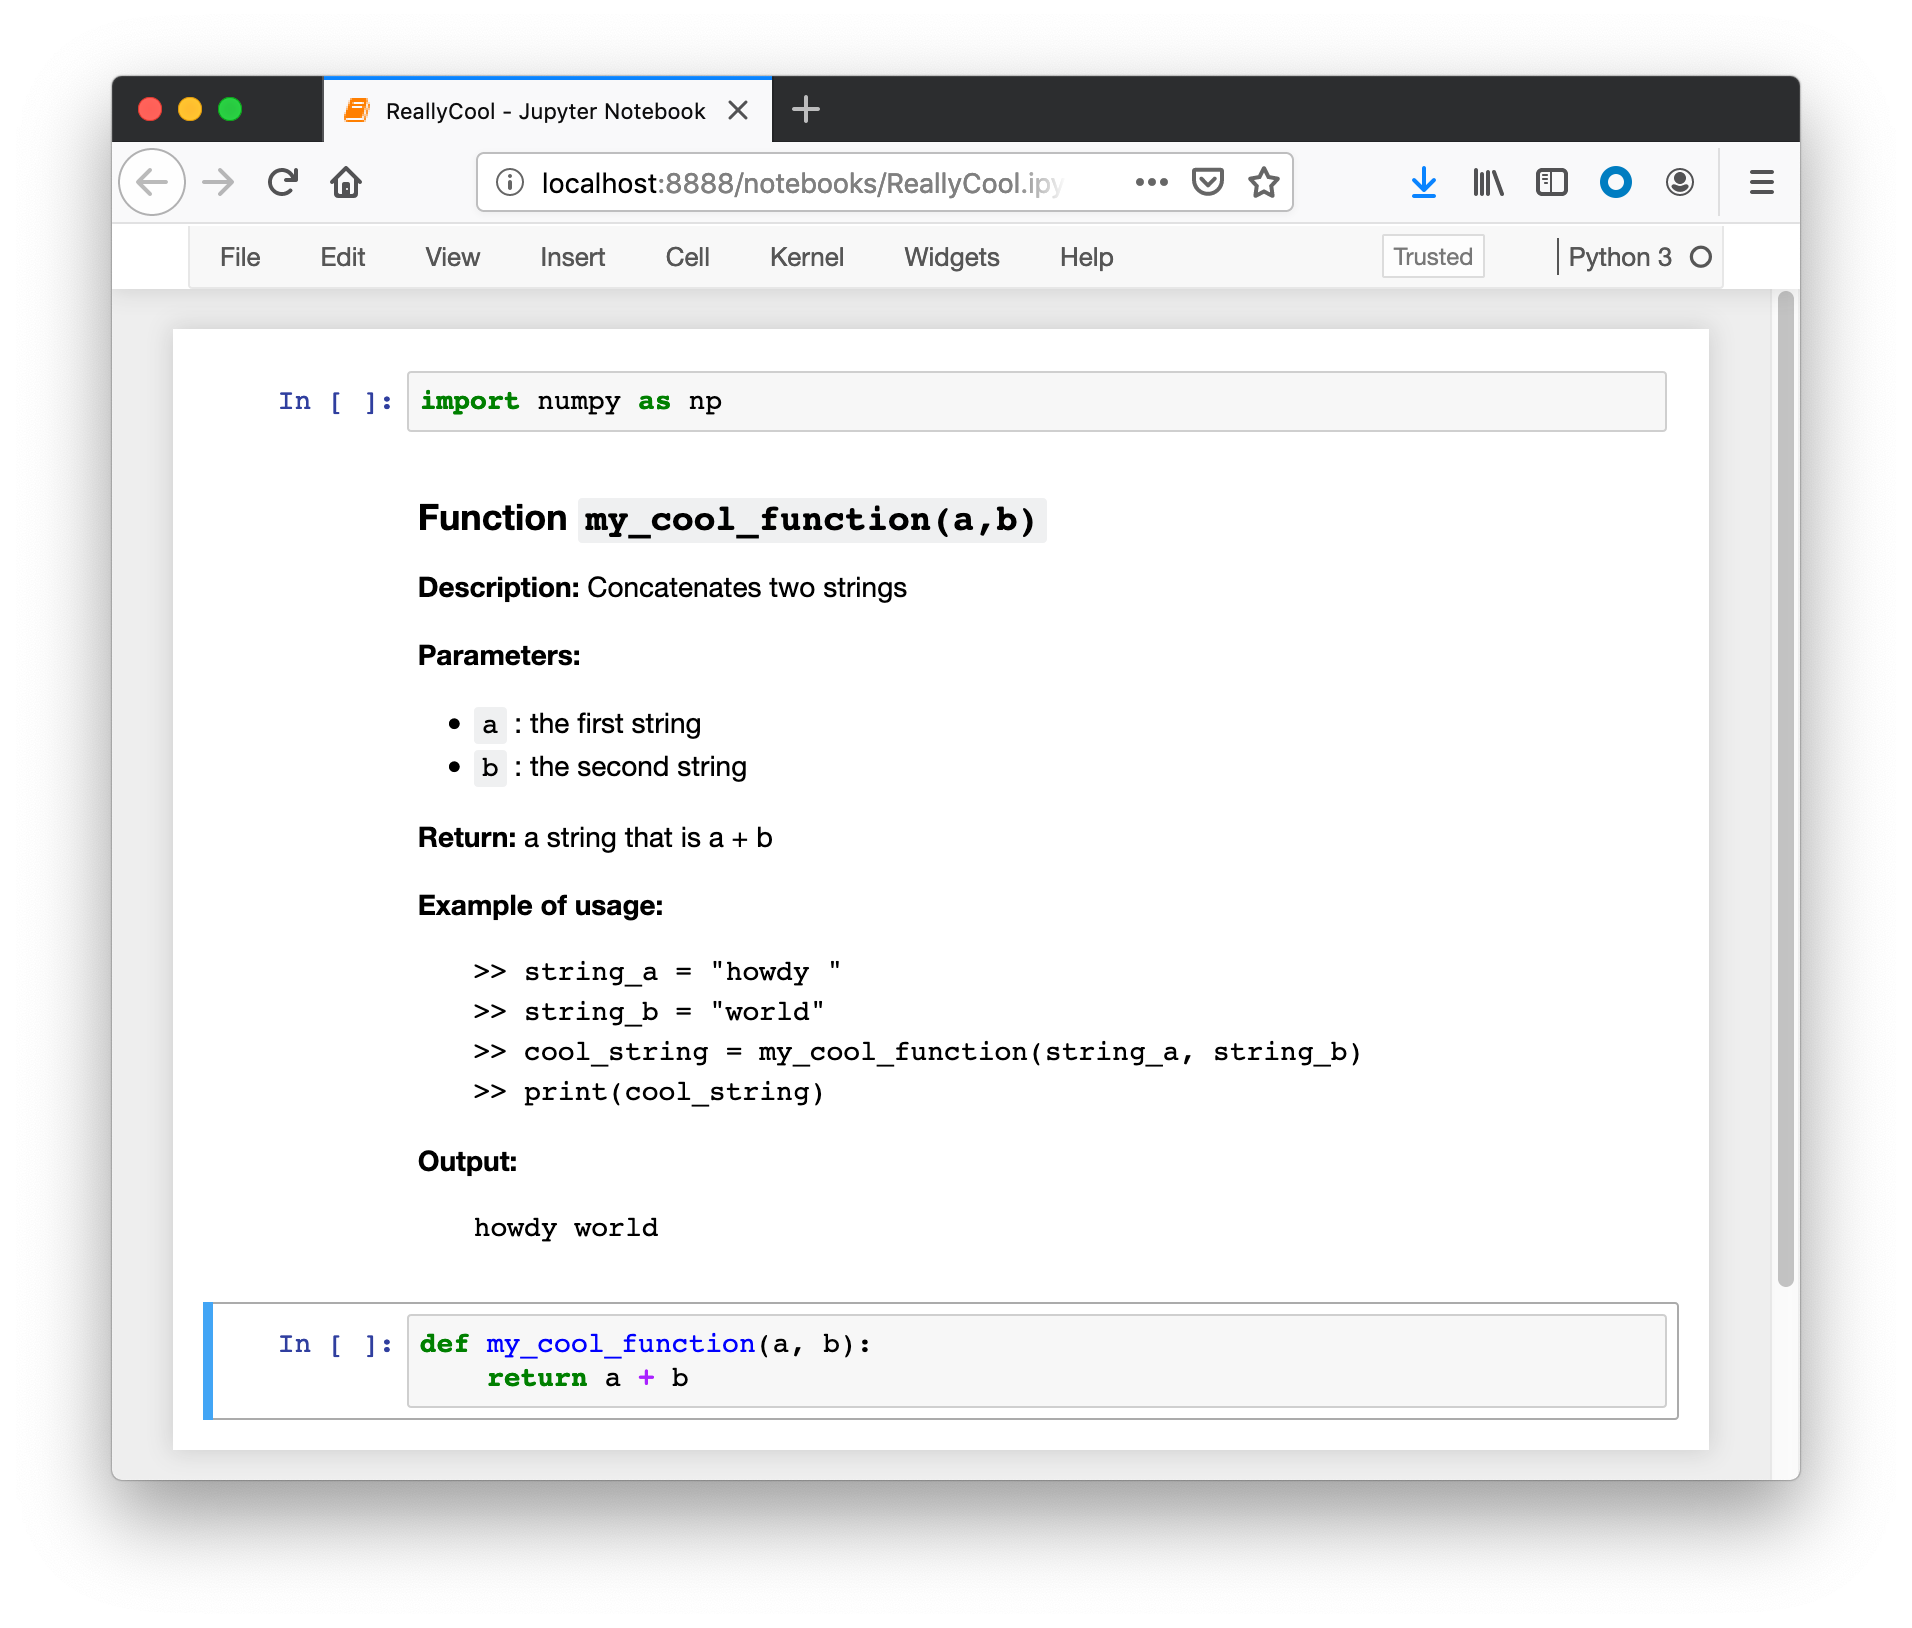
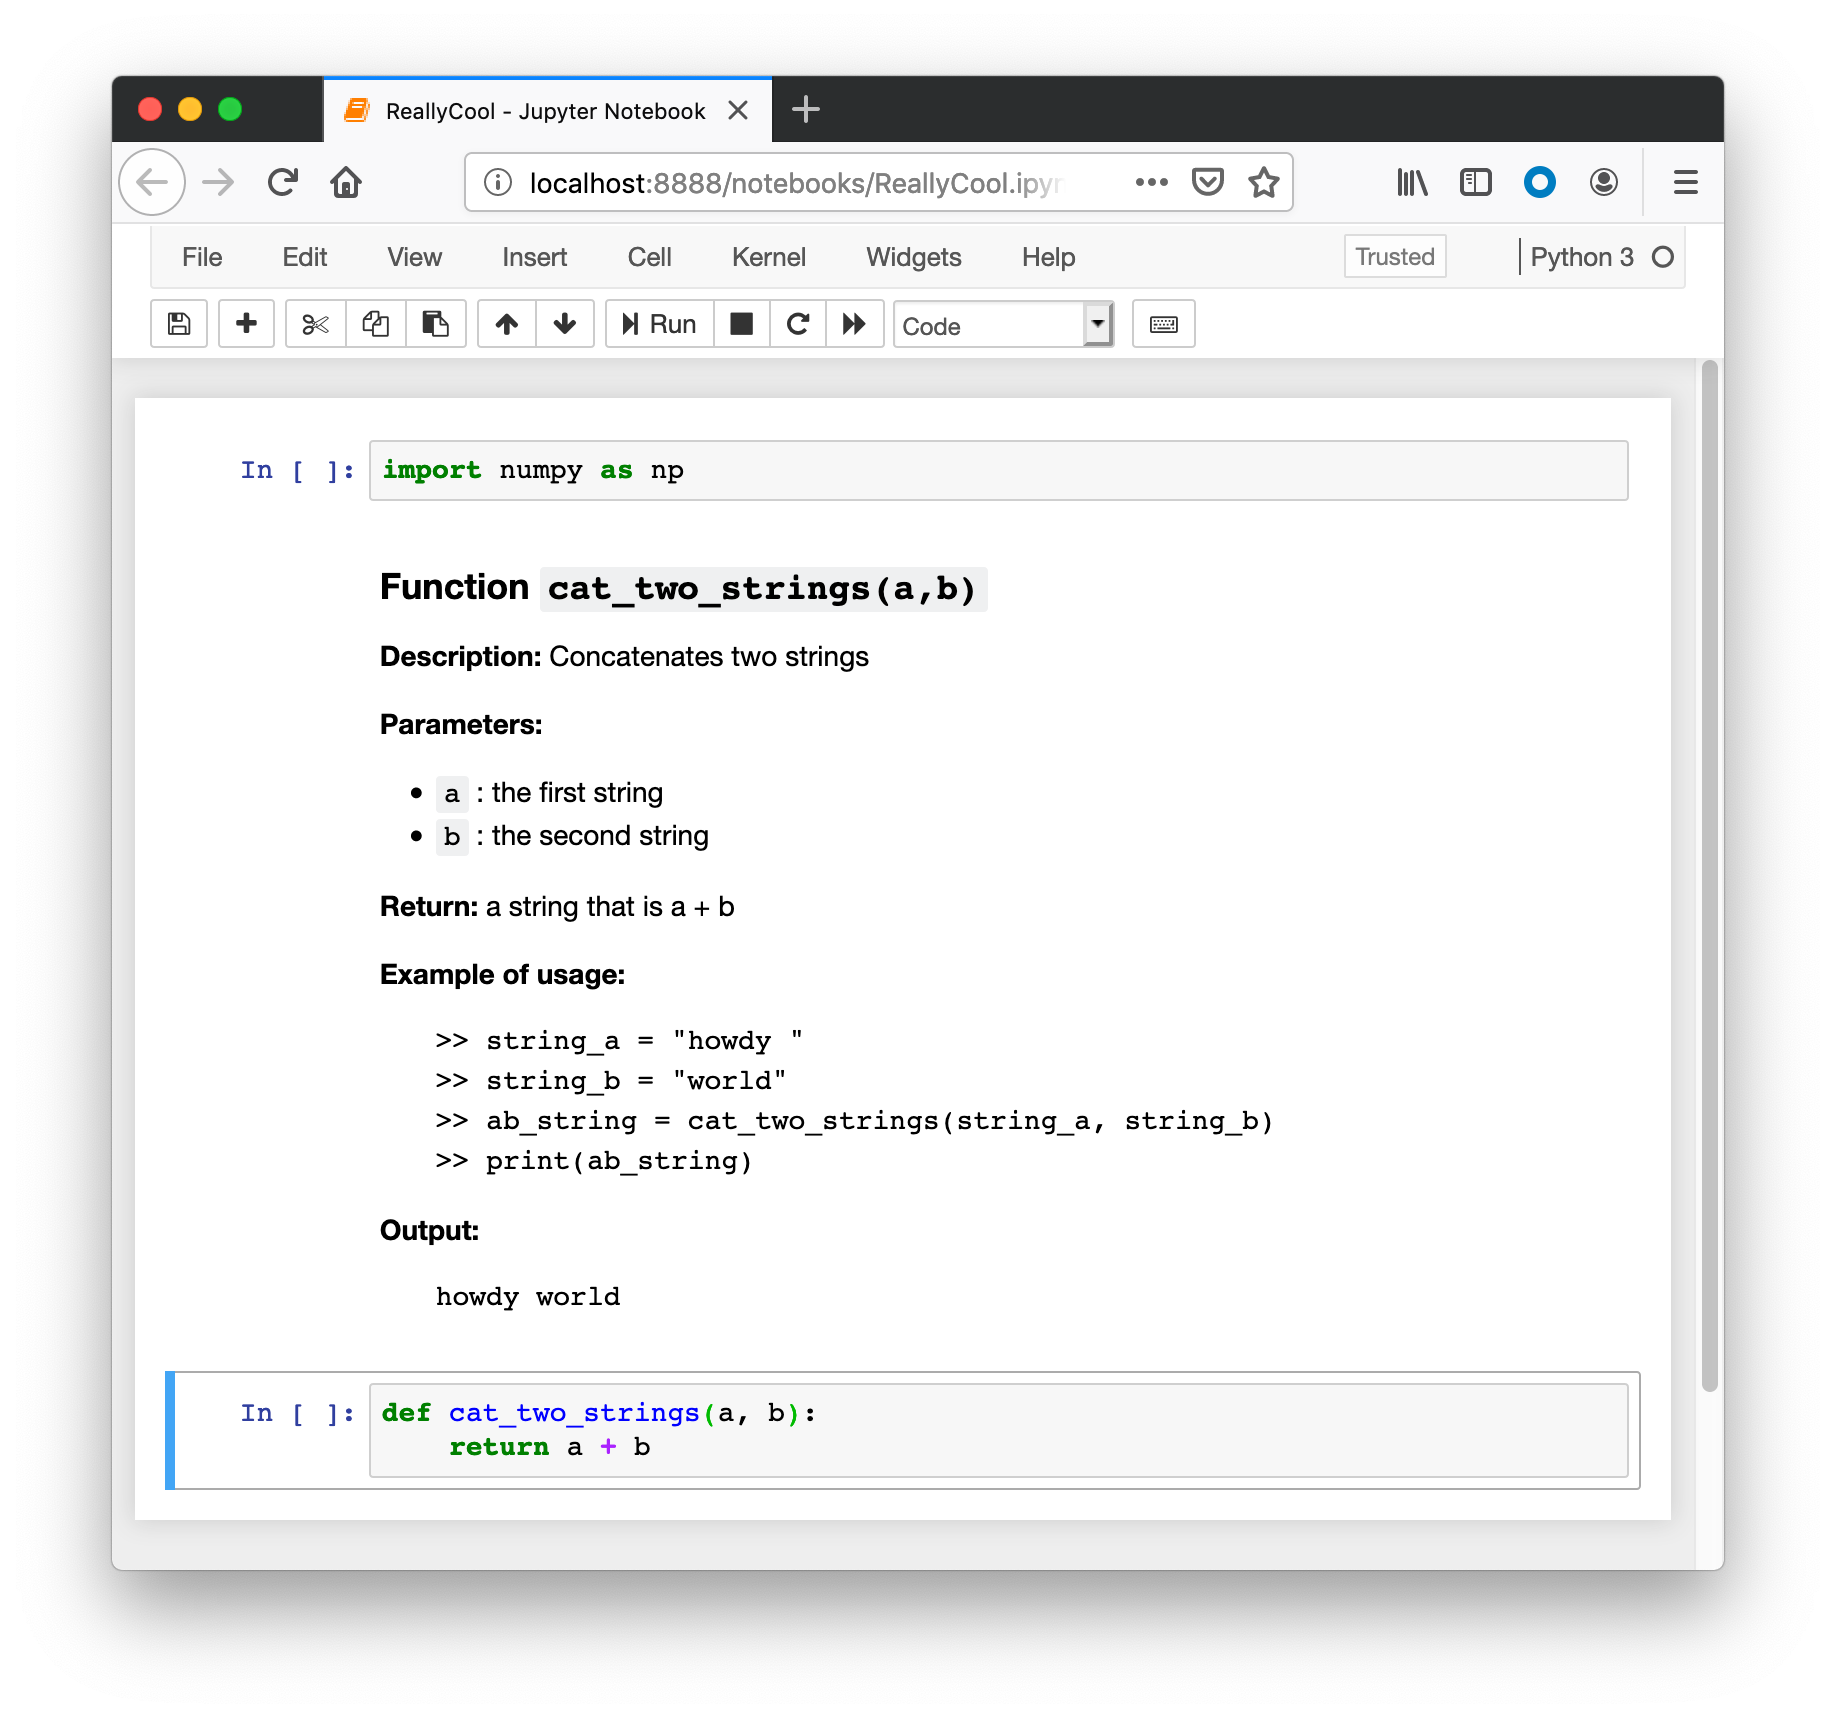
updates

Changed region(s): [[0.0621, 0.0307, 0.9624, 0.9214], [0.2173, 0.7064, 0.3415, 0.7678]]

diff --git a/_episodes/02-datatypes.md b/_episodes/02-datatypes.md
@@ -179,7 +179,7 @@ my_list = [0,1,2]
 >
 > Change the value of a single element in `my_list ` and `my_tuple`.
 >
-> > ## Solution: List
+<!-- > > ## Solution: List
 > >
 > > ~~~
 > > my_list[1] = 5
@@ -206,7 +206,7 @@ my_list = [0,1,2]
 > >TypeError: 'tuple' object does not support item assignment
 > > ~~~
 > > {: .output}
-> {: .solution}
+> {: .solution} -->
 {: .challenge}
 
 ### Assigning Elements of a List or Tuple to New Variables
@@ -393,7 +393,7 @@ for key in numbers2:
 >
 > Try to reassign the second value of `numbers2` (in the *key value pair*) so that it no longer reads "two" but instead reads "spam and eggs". What does your dictionary look like after you make this change?
 >
-> > ## Solution
+<!-- > > ## Solution
 > >
 > > ~~~
 > > numbers2[2] = 'spam and eggs'
@@ -405,7 +405,7 @@ for key in numbers2:
 > >{1: 'one', 2: 'spam and eggs', 3: 'three', 4: 'four'}
 > > ~~~
 > > {: .output}
-> {: .solution}
+> {: .solution} -->
 {: .challenge}
 
 It is important to note that dictionaries in Python 3.6 or greater are insertion _ordered_ and preserve the
@@ -520,8 +520,8 @@ This is because you want your science to be reproducible
 by anyone who evaluates your work or wishes to build
 on your findings. But, even more importantly, you
 need to properly document your code so that **_you_**
-know what your own code does when you open your 
-code-base again after spending several months finishing
+know what your own programs and scripts do when you open your 
+them again after spending several months finishing
 some other project. 
 
 Here are some basic tips for writing code 
@@ -566,7 +566,7 @@ These are called *Docstrings* and are inserted right
 after the first line instantiating the function. 
 
 ~~~
-def my_cool_function(a, b):
+def cat_two_strings(a, b):
     """Description: Concatenates two strings
     
     Parameters: 
@@ -576,10 +576,10 @@ def my_cool_function(a, b):
     Return: a string that is a + b
     
     Example of usage:
-       >string_a = "howdy "
-       >string_b = "world"
-       >cool_string = my_cool_function(string_a, string_b)
-       >print(cool_string)
+       >> string_a = "howdy "
+       >> string_b = "world"
+       >> ab_string = cat_two_strings(string_a, string_b)
+       >> print(ab_string)
        
        Output:
           howdy world
@@ -594,14 +594,14 @@ is defined, the information from the Docstring is
 available using the `help()` function:
 
 ~~~
-help(my_cool_function)
+help(cat_two_strings)
 ~~~
 {: .python}
 
 ~~~
-Help on function my_cool_function in module __main__:
+Help on function cat_two_strings in module __main__:
 
-my_cool_function(a, b)
+cat_two_strings(a, b)
      Description: Concatenates two strings
     
      Parameters: 
@@ -611,10 +611,10 @@ my_cool_function(a, b)
      Return: a string that is a + b
     
      Example of usage:
-        >string_a = "howdy "
-        >string_b = "world"
-        >cool_string = my_cool_function(string_a, string_b)
-        >print(cool_string)
+       >> string_a = "howdy "
+       >> string_b = "world"
+       >> ab_string = cat_two_strings(string_a, string_b)
+       >> print(ab_string)
        
         Output:
           howdy world
@@ -624,20 +624,20 @@ my_cool_function(a, b)
 ## In-line Comments
 You may also find it necessary to add comments
 within your code. In Python comments are 
-preceded by a `#`. It really is up to you 
+preceded by an octothorpe (i.e., `#`). It really is up to you 
 to decide when and how to use such comments.
 Ultimately, this type of documentation is 
 really for adding information or details 
 in places where it isn't obvious from the 
 code what is going on. Another use for
 in-line comments is to add flags for debugging
-or "to-dos" or something. In these cases,
-the comments should be written on the line
+or "to-dos" for work that is currently in progress. 
+In these cases, the comments should be written on the line
 above the code it refers to or just to the 
 right on the same line.
 
 ~~~
-def my_cool_function(a, b):
+def cat_two_strings(a, b):
    return a + b    # TODO: verify that a & b are strings
 ~~~
 {: .python}

diff --git a/_episodes/01-intro.md b/_episodes/01-intro.md
@@ -137,7 +137,7 @@ o
 >
 > Count the number of Gs in the sequence above using a `for` loop. What is the difference between Python (see above) and R (in solution below) implementations?
 >
-> > ## Solution
+<!-- > > ## Solution
 > > ~~~
 > > seq <- 'GACTTAATGGGCAATAGGCAAGCACTTGAAAAAGATGCCAACGACATGAAAACACAAGACAA'
 > > seq_split <- strsplit(seq, "")[[1]]
@@ -149,21 +149,21 @@ o
 > > }
 > > print(count)
 > > ~~~
-> {: .solution}
+> {: .solution} -->
 {: .challenge}
 
 > ## What is the simplest way to count the Gs?
 >
 > Count the number of Gs in the sequence above using either R or Python in a simpler way.
 >
-> > ## Python Solution
+<!-- > > ## Python Solution
 > > ~~~
 > > seq <- 'GACTTAATGGGCAATAGGCAAGCACTTGAAAAAGATGCCAACGACATGAAAACACAAGA'
 > > print(seq.count('G'))
 > > ~~~
 > > {: .python}
 > {: .solution}
->
+> -->
 <!-- > > ## R Solution
 > > ~~~
 > > seq <- 'GACTTAATGGGCAATAGGCAAGCACTTGAAAAAGATGCCAACGACATGAAAACACAAGA'
@@ -337,8 +337,8 @@ Each cell in a Jupyter notebook can be executed and you can choose the type of c
 >
 > Replicate one of the solutions give above in a Jupyter notebook. Add some Markdown text to describe your program.
 >
-> > ## Solution
+<!-- > > ## Solution
 > >
 > > ![jupyter browser](../fig/jupyter3.png)
-> {: .solution}
+> {: .solution} -->
 {: .challenge}
